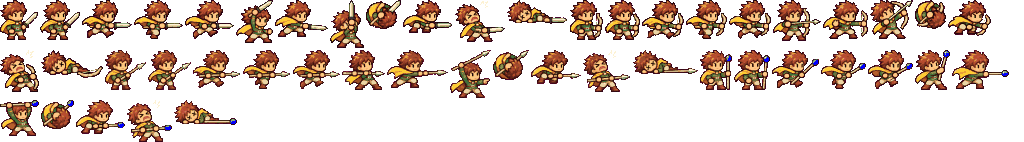
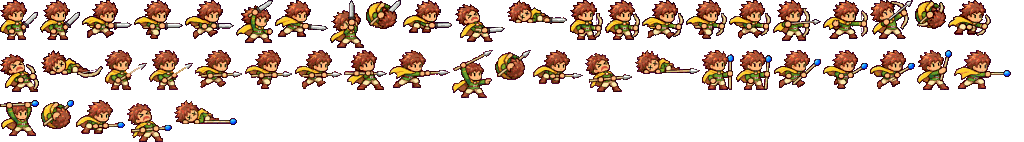
技能格 / 背包支持拖动交换；枪待机两帧沿两手之间那截重画枪杆；勇者图集改 128 色
Claude-Session: https://claude.ai/code/session_015MetZpZfHySQWDEPDS41Tu

diff --git a/js/camp.js b/js/camp.js
@@ -54,13 +54,13 @@
       else if (s) { d.className = 'slot has'; d.appendChild(UI.icon(SK[s.id].icon)); d.insertAdjacentHTML('beforeend', `<span>${SK[s.id].name}</span><i>Lv${s.lv}</i>`); }
       else { d.className = 'slot'; d.insertAdjacentHTML('beforeend', '空'); }
       if (sel && sel.t === 's' && sel.i === i) d.classList.add('sel');
-      if (i < r.open) d.onclick = () => pick({ t: 's', i }, box); sl.appendChild(d); });
-    L.insertAdjacentHTML('beforeend', '<h4>背包 <small>宝物放着就生效；技能书点一下再点技能格装上</small></h4>');
+      if (i < r.open) { d.onclick = () => dragged || pick({ t: 's', i }, box); drag(d, { t: 's', i }, !!s, box); } sl.appendChild(d); });
+    L.insertAdjacentHTML('beforeend', '<h4>背包 <small>宝物放着就生效；技能书直接拖到技能格上装上（点一下再点格子也行）</small></h4>');
     const bg = document.createElement('div'); bg.className = 'bag'; L.appendChild(bg);
     r.bag.forEach((o, i) => { const d = document.createElement('div'); const t = thing(o);
       if (t) { d.className = 'has ' + o.kind; d.appendChild(iconEl(t)); if (o.kind === 'book') d.insertAdjacentHTML('beforeend', `<i>${o.lv > 1 ? 'Lv' + o.lv : '书'}</i>`); }
       if (sel && sel.t === 'b' && sel.i === i) d.classList.add('sel');
-      d.onclick = () => pick({ t: 'b', i }, box); bg.appendChild(d); });
+      d.onclick = () => dragged || pick({ t: 'b', i }, box); drag(d, { t: 'b', i }, !!o, box); bg.appendChild(d); });
     // 选中东西的说明和按钮
     const info = document.createElement('div'); info.className = 'loinfo'; L.appendChild(info);
     if (sel && sel.t === 'L') { lockInfo(info, sel.i, box); return; }
@@ -78,7 +78,7 @@
         if (cur.kind === 'use') btn('吃掉', () => { learn(cur); r.bag[sel.i] = null; sel = null; loadout(box); }, true);
         btn(`卖掉 ${t.sell}`, () => { r.coins += t.sell; r.bag[sel.i] = null; sel = null; if (cur.kind === 'item') B().recompute(); loadout(box); refreshCoin(); });
       }
-    } else info.innerHTML = '<p class="dim">点技能格或背包里的东西查看说明。点两个格子可以交换位置。</p>';
+    } else info.innerHTML = '<p class="dim">点一下查看说明；拖到另一个格子上，或先后点两个格子，都能交换位置。</p>';
   }
   // ---------- 属性页：升级攒的属性点手动加；这次结算 / 暂停里加的点，离开前都能退 ----------
   function commit() { const r = R(); for (const k in r.tmp) r.alloc[k] = (r.alloc[k] || 0) + r.tmp[k]; r.tmp = {}; }
@@ -112,6 +112,29 @@
       <span>${UI.piH('crit', 1)}暴击率</span><b>${Math.round(c.crit * 100)}%</b><span>${UI.piH('guard', 1)}物防</span><b>${c.pdef} <small>(受物理 ×${c.pIn.toFixed(2)})</small></b><span>${UI.piH('guard', 1)}魔防</span><b>${c.mdef} <small>(受法术 ×${c.mIn.toFixed(2)})</small></b>
       <span>${UI.piH('move', 1)}移速</span><b>${pct(c.move - 1)}</b><span>${UI.piH('xp', 1)}经验</span><b>${pct(c.xp - 1)}</b></div>
       ${r.habit ? `<p class="dim">现实习惯：${DATA.habits.find(x => x.id === r.habit).name}</p>` : ''}`;
+  }
+  // 拖动：按住技能格或背包里的东西拖到另一个格子上 = 交换 / 装上（PC 鼠标、手机手指都行）；没拖动就还是点选
+  let dragged = false;
+  function drag(el, p, has, box) {
+    el.dataset.t = p.t; el.dataset.i = p.i; if (!has) return;
+    el.onpointerdown = e => {
+      if (e.button) return; const x0 = e.clientX, y0 = e.clientY; let gh = null; dragged = false;
+      const mv = ev => {
+        if (!gh && Math.hypot(ev.clientX - x0, ev.clientY - y0) < 8) return;
+        if (!gh) { const ic = el.querySelector('.pi, canvas, .ic'); gh = document.createElement('div'); gh.className = 'dragghost'; if (ic) gh.appendChild(ic.cloneNode(true)); if (ic && ic.tagName === 'CANVAS') gh.firstChild.getContext('2d').drawImage(ic, 0, 0); document.body.appendChild(gh); el.classList.add('dragging'); dragged = true; }
+        gh.style.left = ev.clientX + 'px'; gh.style.top = ev.clientY + 'px';
+        for (const c of box.querySelectorAll('.droptgt')) c.classList.remove('droptgt');
+        const t = document.elementFromPoint(ev.clientX, ev.clientY); const c = t && t.closest('[data-t]'); if (c && c !== el && box.contains(c)) c.classList.add('droptgt');
+      };
+      const up = ev => {
+        removeEventListener('pointermove', mv); removeEventListener('pointerup', up); removeEventListener('pointercancel', up);
+        if (!gh) return; gh.remove(); el.classList.remove('dragging');
+        const t = document.elementFromPoint(ev.clientX, ev.clientY), c = t && t.closest('[data-t]');
+        if (c && c !== el && box.contains(c)) { sel = p; pick({ t: c.dataset.t, i: +c.dataset.i }, box); } else loadout(box);
+        setTimeout(() => { dragged = false; }, 0);
+      };
+      addEventListener('pointermove', mv); addEventListener('pointerup', up); addEventListener('pointercancel', up);
+    };
   }
   function pick(p, box) {
     const r = R();

diff --git a/css/style.css b/css/style.css
@@ -359,3 +359,9 @@ body:not(.touch) #bRoll { width: 64px; height: 64px; font-size: 14px; pointer-ev
 .card small { white-space: nowrap; } .card .hr { display: block; width: 70%; height: 1px; background: linear-gradient(90deg, transparent, #c8a06088, transparent); margin: 2px 0; }
 .card .desc { flex: 1; display: flex; align-items: center; justify-content: center; min-height: 3.2em; color: #f3e6c8; }
 .card.item .desc { color: #9fe08a; } .card .cb { margin-top: 6px; }
+
+/* 拖动技能 / 背包里的东西 */
+.lo .slots > div, .lo .bag > div { touch-action: none; user-select: none; -webkit-user-select: none; }
+.dragging { opacity: .35; } .droptgt { filter: drop-shadow(0 0 6px #ffd86a) brightness(1.25); }
+.dragghost { position: fixed; z-index: 200; pointer-events: none; transform: translate(-50%, -60%) scale(1.15); width: 56px; height: 56px; display: flex; align-items: center; justify-content: center; filter: drop-shadow(0 4px 8px #000a); }
+.dragghost img, .dragghost canvas { width: 100%; height: auto; }
